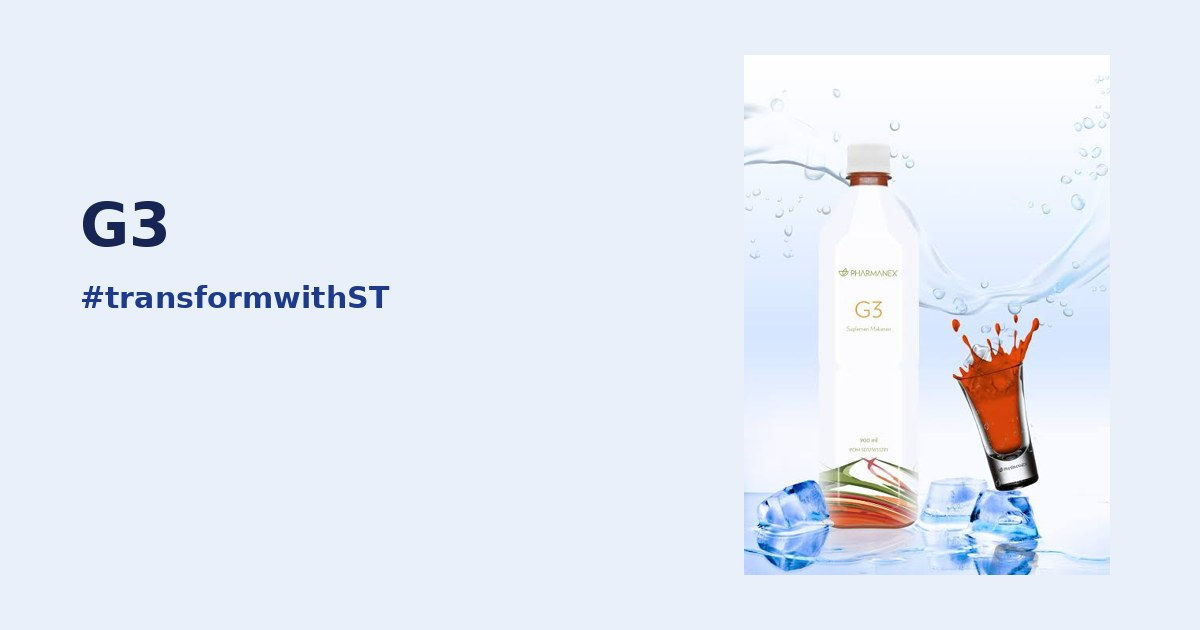
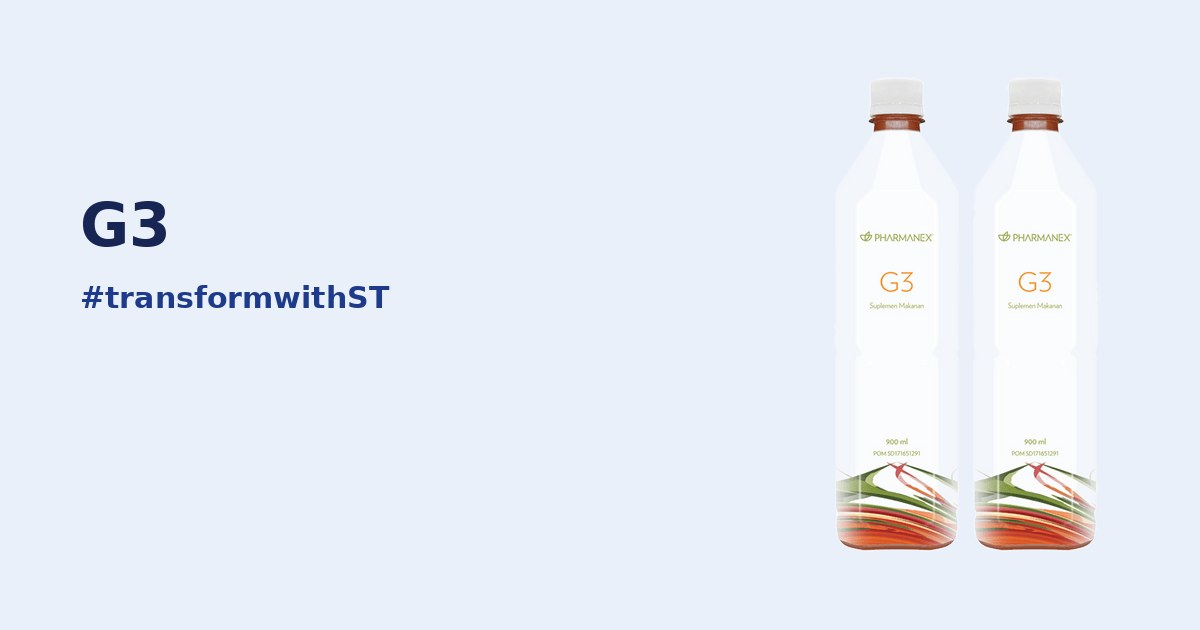
G3: use two-bottle image
Claude-Session: https://claude.ai/code/session_01LcDVJV1FA9rf6EJrvtVc82

diff --git a/en/products/index.html b/en/products/index.html
@@ -84,7 +84,7 @@ section{padding-block:clamp(36px,7vw,72px)}
     <input class="q" id="q" type="search" placeholder="Search products" aria-label="Search products">
   </div>
   <div class="grid" id="grid">
-<a class="card" href="/en/g3/" data-cat="wellness" data-h="g3 jus buah gâc dengan tiga buah lain, rasanya manis sedikit asam. bersertifikat scs untuk skin carotenoid score. a gâc fruit juice blended with three other fruits, sweet with a little tartness. scs-certified for the skin carotenoid score. pharmanex wellness"><div class="ph"><img src="/images/products/g3.jpg" alt="G3" loading="lazy"></div><div class="bd"><span class="tag">Pharmanex · Wellness</span><h3>G3</h3><p>A gâc fruit juice blended with three other fruits, sweet with a little tartness. SCS-certified for the Skin Carotenoid Score.</p><span class="go">Open page →</span></div></a>
+<a class="card" href="/en/g3/" data-cat="wellness" data-h="g3 jus buah gâc dengan tiga buah lain, rasanya manis sedikit asam. bersertifikat scs untuk skin carotenoid score. a gâc fruit juice blended with three other fruits, sweet with a little tartness. scs-certified for the skin carotenoid score. pharmanex wellness"><div class="ph"><img src="/images/products/g3.png" alt="G3" loading="lazy"></div><div class="bd"><span class="tag">Pharmanex · Wellness</span><h3>G3</h3><p>A gâc fruit juice blended with three other fruits, sweet with a little tartness. SCS-certified for the Skin Carotenoid Score.</p><span class="go">Open page →</span></div></a>
 <a class="card" href="/en/r2/" data-cat="wellness" data-h="ageloc® r2 dua formula yang diminum bergantian: r2 day di pagi hari dan r2 night di malam hari. dibuat dari sains ageloc. two formulas taken in turn: r2 day in the morning and r2 night in the evening. built on ageloc science. pharmanex wellness"><div class="ph"><img src="/images/products/r2.png" alt="ageLOC® R2" loading="lazy"></div><div class="bd"><span class="tag">Pharmanex · Wellness</span><h3>ageLOC® R2</h3><p>Two formulas taken in turn: R2 Day in the morning and R2 Night in the evening. Built on ageLOC science.</p><span class="go">Open page →</span></div></a>
 <a class="card" href="/en/youth/" data-cat="wellness" data-h="ageloc® youth suplemen softgel dengan minyak ikan, vitamin d3 dan k2, coq10, resveratrol dan banyak lagi. bersertifikat scs. a softgel supplement with fish oil, vitamins d3 and k2, coq10, resveratrol and more. scs-certified. pharmanex wellness"><div class="ph"><img src="/images/products/youth.png" alt="ageLOC® Youth" loading="lazy"></div><div class="bd"><span class="tag">Pharmanex · Wellness</span><h3>ageLOC® Youth</h3><p>A softgel supplement with fish oil, vitamins D3 and K2, CoQ10, resveratrol and more. SCS-certified.</p><span class="go">Open page →</span></div></a>
 <a class="card" href="/en/marineomega/" data-cat="wellness" data-h="marineomega® suplemen omega-3 dengan minyak ikan murni dan minyak krill, dengan aroma vanila dan lemon yang mengurangi rasa amis. an omega-3 supplement with pure fish oil and krill oil, with a vanilla and lemon scent that reduces the fishy taste. pharmanex wellness"><div class="ph"><img src="/images/products/marineomega.png" alt="MarineOmega®" loading="lazy"></div><div class="bd"><span class="tag">Pharmanex · Wellness</span><h3>MarineOmega®</h3><p>An omega-3 supplement with pure fish oil and krill oil, with a vanilla and lemon scent that reduces the fishy taste.</p><span class="go">Open page →</span></div></a>

diff --git a/products/index.html b/products/index.html
@@ -84,7 +84,7 @@ section{padding-block:clamp(36px,7vw,72px)}
     <input class="q" id="q" type="search" placeholder="Cari produk" aria-label="Cari produk">
   </div>
   <div class="grid" id="grid">
-<a class="card" href="/g3/" data-cat="wellness" data-h="g3 jus buah gâc dengan tiga buah lain, rasanya manis sedikit asam. bersertifikat scs untuk skin carotenoid score. a gâc fruit juice blended with three other fruits, sweet with a little tartness. scs-certified for the skin carotenoid score. pharmanex wellness"><div class="ph"><img src="/images/products/g3.jpg" alt="G3" loading="lazy"></div><div class="bd"><span class="tag">Pharmanex · Wellness</span><h3>G3</h3><p>Jus buah gâc dengan tiga buah lain, rasanya manis sedikit asam. Bersertifikat SCS untuk Skin Carotenoid Score.</p><span class="go">Buka halaman →</span></div></a>
+<a class="card" href="/g3/" data-cat="wellness" data-h="g3 jus buah gâc dengan tiga buah lain, rasanya manis sedikit asam. bersertifikat scs untuk skin carotenoid score. a gâc fruit juice blended with three other fruits, sweet with a little tartness. scs-certified for the skin carotenoid score. pharmanex wellness"><div class="ph"><img src="/images/products/g3.png" alt="G3" loading="lazy"></div><div class="bd"><span class="tag">Pharmanex · Wellness</span><h3>G3</h3><p>Jus buah gâc dengan tiga buah lain, rasanya manis sedikit asam. Bersertifikat SCS untuk Skin Carotenoid Score.</p><span class="go">Buka halaman →</span></div></a>
 <a class="card" href="/r2/" data-cat="wellness" data-h="ageloc® r2 dua formula yang diminum bergantian: r2 day di pagi hari dan r2 night di malam hari. dibuat dari sains ageloc. two formulas taken in turn: r2 day in the morning and r2 night in the evening. built on ageloc science. pharmanex wellness"><div class="ph"><img src="/images/products/r2.png" alt="ageLOC® R2" loading="lazy"></div><div class="bd"><span class="tag">Pharmanex · Wellness</span><h3>ageLOC® R2</h3><p>Dua formula yang diminum bergantian: R2 Day di pagi hari dan R2 Night di malam hari. Dibuat dari sains ageLOC.</p><span class="go">Buka halaman →</span></div></a>
 <a class="card" href="/youth/" data-cat="wellness" data-h="ageloc® youth suplemen softgel dengan minyak ikan, vitamin d3 dan k2, coq10, resveratrol dan banyak lagi. bersertifikat scs. a softgel supplement with fish oil, vitamins d3 and k2, coq10, resveratrol and more. scs-certified. pharmanex wellness"><div class="ph"><img src="/images/products/youth.png" alt="ageLOC® Youth" loading="lazy"></div><div class="bd"><span class="tag">Pharmanex · Wellness</span><h3>ageLOC® Youth</h3><p>Suplemen softgel dengan minyak ikan, vitamin D3 dan K2, CoQ10, resveratrol dan banyak lagi. Bersertifikat SCS.</p><span class="go">Buka halaman →</span></div></a>
 <a class="card" href="/marineomega/" data-cat="wellness" data-h="marineomega® suplemen omega-3 dengan minyak ikan murni dan minyak krill, dengan aroma vanila dan lemon yang mengurangi rasa amis. an omega-3 supplement with pure fish oil and krill oil, with a vanilla and lemon scent that reduces the fishy taste. pharmanex wellness"><div class="ph"><img src="/images/products/marineomega.png" alt="MarineOmega®" loading="lazy"></div><div class="bd"><span class="tag">Pharmanex · Wellness</span><h3>MarineOmega®</h3><p>Suplemen omega-3 dengan minyak ikan murni dan minyak krill, dengan aroma vanila dan lemon yang mengurangi rasa amis.</p><span class="go">Buka halaman →</span></div></a>

diff --git a/en/g3/index.html b/en/g3/index.html
@@ -274,7 +274,7 @@ section{padding-block:clamp(48px,9vw,96px);scroll-margin-top:84px}
     <a class="btn quiet js-wa" href="https://wa.me/628170241185"><span>Message <span class="cn">Coach AJ</span></span></a>
   </div>
   <div class="meta"><span><span>Run by <b class="cn">Coach AJ</b>, an official Nu Skin distributor, not the official Nu Skin site</span></span><span>Fruit juice</span><span>SCS-certified</span><span>Check availability in Indonesia with Coach AJ</span></div>
-  <img class="pimg" src="/images/products/g3.jpg" alt="G3 Gâc Superfruit Blend" width="520" height="420" fetchpriority="high">
+  <img class="pimg" src="/images/products/g3.png" alt="G3 Gâc Superfruit Blend" width="520" height="420" fetchpriority="high">
 </div></div>
 
 <section id="apa"><div class="wrap"><div class="head reveal"><p class="kicker">What it is</p><h2>G3</h2></div><div class="prose reveal"><p>Gâc is rich in carotenoids in a form called lipocarotenes, which are carotenoids bound to natural fatty acids. According to Nu Skin material, that binding helps carotenoids and other nutrients get absorbed, and beta-carotene from gâc appears easier to absorb than beta-carotene from dark green vegetables.</p><p>The G3 formula adds three more fruits: Chinese lycium from southern China, Siberian pineapple from Asia and Cili fruit from the mountains of China. All are natural fruit juices. It tastes sweet with a little tartness, and its official material says the whole family can drink it daily.</p></div><div class="who reveal"><b>Who it suits</b><p>Good if you want to add fruit in an easy-to-drink form, or you want your skin carotenoid score to move up on the Pharmanex scanner. G3 does not replace whole fruits and vegetables.</p></div></div></section>

diff --git a/g3/index.html b/g3/index.html
@@ -274,7 +274,7 @@ section{padding-block:clamp(48px,9vw,96px);scroll-margin-top:84px}
     <a class="btn quiet js-wa" href="https://wa.me/628170241185"><span>Tanya <span class="cn">Coach AJ</span></span></a>
   </div>
   <div class="meta"><span><span>Dikelola <b class="cn">Coach AJ</b>, Distributor Nu Skin Resmi, bukan situs resmi Nu Skin</span></span><span>Jus buah</span><span>Bersertifikat SCS</span><span>Cek ketersediaan di Indonesia lewat Coach AJ</span></div>
-  <img class="pimg" src="/images/products/g3.jpg" alt="G3 Gâc Superfruit Blend" width="520" height="420" fetchpriority="high">
+  <img class="pimg" src="/images/products/g3.png" alt="G3 Gâc Superfruit Blend" width="520" height="420" fetchpriority="high">
 </div></div>
 
 <section id="apa"><div class="wrap"><div class="head reveal"><p class="kicker">Apa itu</p><h2>G3</h2></div><div class="prose reveal"><p>Gâc kaya akan karotenoid dalam bentuk yang disebut lipocarotene, yaitu karotenoid yang terikat dengan asam lemak alami. Menurut materi Nu Skin, ikatan itu membantu karotenoid dan nutrisi lain diserap, dan beta-karoten dari gâc tampak lebih mudah diserap daripada beta-karoten dari sayuran hijau tua.</p><p>Formula G3 menambahkan tiga buah lain: Chinese lycium dari Tiongkok selatan, Siberian pineapple dari Asia, dan Cili dari pegunungan Tiongkok. Semuanya sari buah alami. Rasanya manis dan sedikit asam, dan menurut materi resminya bisa diminum tiap hari oleh seluruh keluarga.</p></div><div class="who reveal"><b>Cocok untuk siapa</b><p>Kamu yang mau menambah asupan buah dalam bentuk yang gampang diminum, atau ingin skor karotenoid kulitnya ikut naik di pemindai Pharmanex. G3 tidak menggantikan buah dan sayur utuh.</p></div></div></section>

diff --git a/scripts/products/wellness.py b/scripts/products/wellness.py
@@ -2,7 +2,7 @@
 # Facts come from the official Nu Skin / Pharmanex Product Information Pages (PIP). No prices on purpose.
 
 G3 = dict(
-    slug='g3', img='/images/products/g3.jpg', cat='wellness', brand='Pharmanex', name='G3',
+    slug='g3', img='/images/products/g3.png', cat='wellness', brand='Pharmanex', name='G3',
     full='G3 Gâc Superfruit Blend',
     h1=('G3, jus gâc dengan lipocarotene', 'G3, a gâc fruit blend with lipocarotenes'),
     sub=('Jus buah yang bisa kamu minum tiap hari', 'A fruit juice you can drink every day'),
